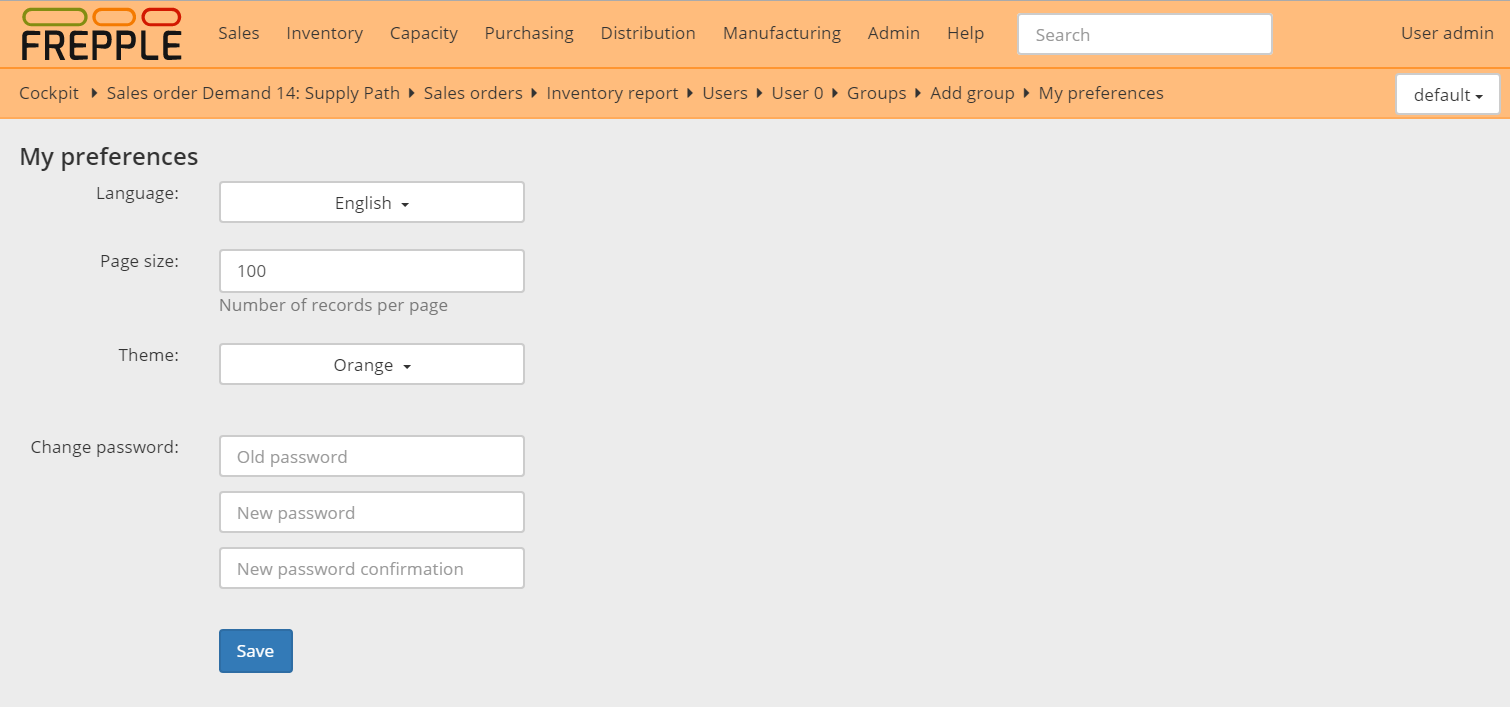
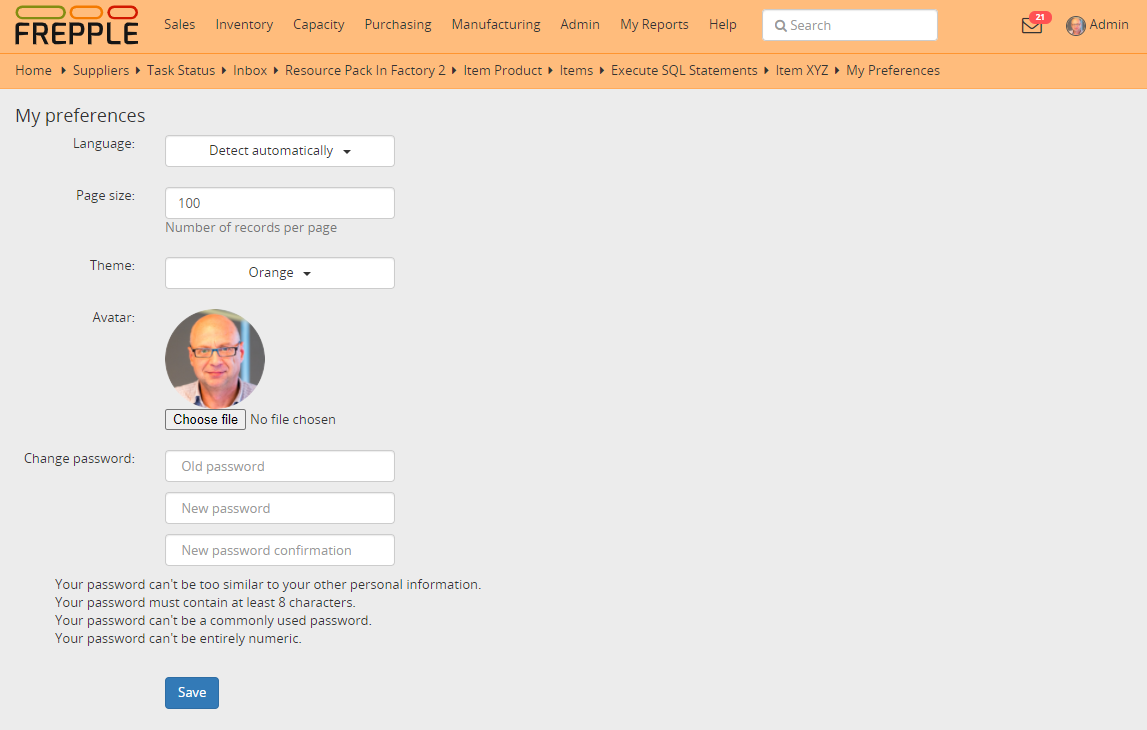
message and inbox developments

diff --git a/freppledb/common/templates/common/comments.html b/freppledb/common/templates/common/comments.html
@@ -11,14 +11,25 @@ function enableSave() {
 </script>
 {% endblock %}
 
+{% block tools %}
+<h1 class="pull-right">
+&nbsp;
+<button class="btn btn-xs btn-primary" data-toggle="tooltip" data-placement="top" data-original-title="{% trans 'help'|capfirst|force_escape %}"
+  onclick="window.open('{% setting "DOCUMENTATION_URL" %}/docs/{% version_short %}/user-interface/getting-around/messages.html');">
+  <span class="fa fa-question"></span>
+</button>
+</h1>
+{% include "common/snippet_follow.html" %}
+{% endblock %}
+
 {% block content %}
   <div id="content-main" class="row" style="min-height: 150px">
     <div class="col-md-12">
 {% if perms.common.add_comment %}
       <form method="post" enctype="multipart/form-data">{% csrf_token %}
-        <textarea id="comment" name="comment" class="form-control" rows="10" style="width:100%" oninput="enableSave()"></textarea>                
+        <textarea id="comment" name="comment" class="form-control" rows="10" style="width:100%; resize:vertical" oninput="enableSave()"></textarea>                
         <label for="attachment">{% trans "Add an attachment" %}
-        <input style="display:inline" type="file" name="attachment" accept="{% setting 'MEDIA_EXTENSIONS' %}" id="attachment" onchange="enableSave()">
+        <input style="padding-top: 1em; display:inline" type="file" name="attachment" accept="{% setting 'MEDIA_EXTENSIONS' %}" id="attachment" onchange="enableSave()">
         </label>
         <div style="margin-top: 0.7em"><button id="submit" type="submit" class="btn btn-primary disabled" role="button" value="{% filter force_escape %}{% trans 'Save' %}{% endfilter %}">{% filter force_escape %}{% trans 'Save' %}{% endfilter %}</button></div>
       </form>{% endif%}

diff --git a/freppledb/common/templates/common/inbox.html b/freppledb/common/templates/common/inbox.html
@@ -5,8 +5,17 @@
 {{ block.super }}
 {% endblock %}
 
-{% block content %}
+{% block tools %}
+<h1 class="pull-right">
+<button class="btn btn-xs btn-primary" data-toggle="tooltip" data-placement="top"
+  onclick="window.open('{% setting "DOCUMENTATION_URL" %}/docs/{% version_short %}/user-interface/getting-around/inbox/html')"
+  data-original-title="{% trans 'help'|capfirst|force_escape %}">
+  <span class="fa fa-question"></span>
+</button>
+</h1>
+{% endblock %}
 
+{% block content %}
 <div id="content-main">
 <div class="row">
 <div class="col-md-12">
@@ -14,12 +23,12 @@
 <table class="table table-condensed table-hover">
 <thead style="display: table-header-group;">
 <tr>
-<td><b style="text-transform: capitalize"><input type="checkbox"></td>
-<td><b style="text-transform: capitalize">Link</b></td>
-<td><b style="text-transform: capitalize">Comment</b></td>
-<td><b style="text-transform: capitalize"></b></td>
-<td><b style="text-transform: capitalize"></b></td>
-<td><b style="text-transform: capitalize"></b></td>
+<td><input type="checkbox"></td>
+<td></td>
+<td></td>
+<td></td>
+<td></td>
+<td></td>
 </tr>
 </thead>
 <tbody>
@@ -39,7 +48,7 @@
   {% endif %}</td>
 <td>
   <span data-toggle="tooltip" data-original-title="{{ notif.comment.user.first_name}} {{ notif.comment.user.last_name}}">
-  {% if notif.comment.user.avatar %}<img style="border-radius: 50%; width:30px; height:30px" src="/uploads/{{ notif.comment.user.avatar }}">{% endif %}
+  {% if notif.comment.user.avatar %}<img class="avatar-sm" src="/uploads/{{ notif.comment.user.avatar }}">{% endif %}
   {{ notif.comment.user.username }}
   </span>
 </td>

diff --git a/freppledb/common/templates/admin/base_site_nav.html b/freppledb/common/templates/admin/base_site_nav.html
@@ -69,13 +69,16 @@ $(function() {
           style="position:relative" data-original-title="{% trans "No unread messages" %}">
           <a href="{{request.prefix}}/inbox/">
             <span id="messages" style="font-size: 1.5em" class="fa fa-envelope-open-o" aria-hidden="true"></span>
-            <span style="font-size: 60%; position: absolute; top: 0; left:7px" class="badge progress-bar-danger" aria-hidden="true"></span>
+            <span style="font-size: 60%; position: absolute; top: -5px; left:7px" class="badge progress-bar-danger" aria-hidden="true"></span>
           </a>
         </div>
 		    <li class="dropdown">
 		    <a href="#" class="dropdown-toggle" style="padding-right: 20px" data-toggle="dropdown" 
           role="button" aria-haspopup="true" aria-expanded="false">
-          {% trans 'user'|capfirst %} {% firstof user.first_name user.username %}
+          {% if user.avatar %}<img src="{{ user.avatar.url }}" class="avatar-sm">
+          {% else %}<i style="font-size: 1.5em" class="fa fa-user-circle-o"></i>
+          {% endif %}
+          {% firstof user.first_name user.username %}
         </a>
 				<ul class="dropdown-menu">
 				  <li><a href="{{request.prefix}}/preferences/">{% trans 'preferences'|capfirst %}</a></li>

diff --git a/freppledb/common/templates/admin/base.html b/freppledb/common/templates/admin/base.html
@@ -26,7 +26,7 @@ $(function() {
 
 {% if messages %}<div class="row"><div class="col-md-12" style="margin-top: 5px">{% for message in messages %}<ul class="alert {{message.tags}}"><li >{{message}}</li></ul>{% endfor %}</div></div>{% endif %}
 
-{% block content_title %}<div class="row"><div class="col-md-12">{% if title %}<h1>{{title|capfirst|force_escape}}{% if post_title %}: {{post_title|capfirst}}{% endif %}<small>{% block filter %}{% endblock %}&nbsp;&nbsp;<span id="curerror"></span></small></h1>{% block tools %}{% endblock %}{% endif %}</div></div>{% endblock %}
+{% block content_title %}<div class="row"><div class="col-md-12">{% if title %}<h1 class="pull-left">{{title|capfirst|force_escape}}{% if post_title %}: {{post_title|capfirst}}{% endif %}<small>{% block filter %}{% endblock %}&nbsp;&nbsp;<span id="curerror"></span></small></h1>{% block tools %}{% endblock %}{% endif %}</div></div>{% endblock %}
 
 {% block content %}<div id="content" class="row">
 {% block object-tools %}{% endblock %}

diff --git a/freppledb/common/templates/common/preferences.html b/freppledb/common/templates/common/preferences.html
@@ -98,10 +98,11 @@
         <label class="control-label" for="id_avatar">{% trans 'avatar'|capfirst%}:</label>
       </div>
       <div class="col-xs-9" style="max-width:260px">
-        {% if request.user.avatar %}
-        <img style="border-radius: 50%; width:100px; height:100px" src="{{request.user.avatar.url}}">
+        {% if request.user.avatar %}<img style="border-radius: 50%; width:100px; height:100px" src="{{request.user.avatar.url}}">
+        {% else %}<i style="font-size: 8em" class="fa fa-user-circle-o"></i>
         {% endif %}
-        <input type="file" name="avatar" accept="image/*" id="id_avatar">
+        <input data-toggle="tooltip" data-html="true" type="file" name="avatar" accept="image/*" id="id_avatar"
+          data-original-title="{% trans "Upload a square picture of yourself.<br>Accepted formats are jpeg, png and gif.<br>Max file size is 100kB." %}">
       </div>
     </div>
 

diff --git a/freppledb/common/static/js/frepple.js b/freppledb/common/static/js/frepple.js
@@ -395,7 +395,7 @@ jQuery.extend($.fn.fmatter, {
 
   image : function(cellvalue, options, rowdata) {
     return cellvalue ?
-      '<img style="border-radius: 50%; width:40px; height:40px" src="/uploads/' + cellvalue + '">' :
+      '<img class="avatar-sm" src="/uploads/' + cellvalue + '">' :
       '';
   },
   
@@ -3797,4 +3797,23 @@ $.fn.drags = function(opt) {
           $(this).removeClass('active-handle').parent().removeClass('draggable');
       }
   });
+}
+
+//  Follower functions
+
+function follow(el) {
+ var t = $(el);
+ $.ajax({
+   url: url_prefix + "/follow/",
+   data: JSON.stringify([{
+     "object_pk": t.attr("data-pk"),
+     "model": t.attr("data-model"),
+     "action": "add"
+   }]),
+   type: "POST",
+   contentType: "application/json",
+   success: function () {
+     t.text(gettext("unfollow"));
+     }
+   });
 }

diff --git a/freppledb/common/templates/common/snippet_follow.html b/freppledb/common/templates/common/snippet_follow.html
@@ -1,0 +1,9 @@
+{% load i18n %}
+
+<h1 class="pull-right">
+<button class="btn btn-xs btn-primary" style="text-transform:capitalize" data-pk="{{object_id}}" data-model="{{opts}}"
+  onclick="follow(this)" data-toggle="tooltip" 
+  data-placement="auto bottom" data-original-title="{% trans 'Get a notification in your inbox when there is activity'|capfirst %}">
+  {% trans "follow" %}
+</button>
+</h1>

diff --git a/freppledb/common/static/css/frepple.less b/freppledb/common/static/css/frepple.less
@@ -890,3 +890,13 @@ h1 small {
 .supply .panel-heading.collapsed {
   opacity: 0.8;
 }
+
+// Avatar 
+
+img.avatar-sm {
+  border-radius: 50%;
+  width: 20px;
+  height: 20px;
+  border: 1px solid @gray;
+  vertical-align: top;
+}

diff --git a/freppledb/common/views.py b/freppledb/common/views.py
@@ -19,7 +19,7 @@ import json
 import os.path
 
 from django.core.paginator import Paginator
-from django.http import JsonResponse
+from django.http import JsonResponse, HttpResponseNotAllowed
 from django.shortcuts import render
 from django.contrib import messages
 from django.contrib.auth import update_session_auth_hash
@@ -51,7 +51,15 @@ from django.views import static
 from django.views.decorators.csrf import csrf_protect
 from django.views.decorators.debug import sensitive_variables
 
-from .models import User, Parameter, Comment, Bucket, BucketDetail, Notification
+from .models import (
+    User,
+    Parameter,
+    Comment,
+    Bucket,
+    BucketDetail,
+    Notification,
+    Follower,
+)
 from .report import GridReport, GridFieldLastModified, GridFieldText, GridFieldBool
 from .report import GridFieldDateTime, GridFieldInteger, getCurrency
 
@@ -173,6 +181,8 @@ class PreferencesForm(forms.Form):
             raise forms.ValidationError("Maximum page size is 10000.")
         if newdata.get("pagesize", 25) < 25:
             raise forms.ValidationError("Minimum page size is 25.")
+        if newdata.get("avatar", None) and newdata["avatar"].size > 102400:
+            raise forms.ValidationError("Avatars are limited to 100kB")
         if newdata["cur_password"]:
             if not self.user.check_password(newdata["cur_password"]):
                 raise forms.ValidationError(
@@ -616,6 +626,7 @@ def inbox(request):
         else:
             # Updating messages posted in the format
             # [{"id": 123, "action": "read / delete"},...]
+            response = {"errors": 0}
             try:
                 for rec in json.JSONDecoder().decode(
                     request.read().decode(request.encoding or settings.DEFAULT_CHARSET)
@@ -633,6 +644,8 @@ def inbox(request):
                             notif.delete(using=request.database)
             except Exception as e:
                 logger.error("Error processing comment: %s" % e)
+                response["errors"] += 1
+            return JsonResponse(response)
     else:
         # Return inbox page for normal requests
         inbox = Paginator(
@@ -649,4 +662,40 @@ def inbox(request):
                 "title": _("inbox"),
                 "inbox": inbox.get_page(request.GET.get("page", 1)),
             },
+        )
+
+
+@login_required
+def follow(request):
+    if request.is_ajax() and request.method == "POST":
+        # Updating followers posted in the format:
+        # [{"model": "input.item", "object_pk": "pk", "action": "add / delete"},...]
+        response = {"errors": 0}
+        try:
+            for rec in json.JSONDecoder().decode(
+                request.read().decode(request.encoding or settings.DEFAULT_CHARSET)
+            ):
+                action = rec.get("action", None)
+                object_pk = rec.get("object_pk", None)
+                model = rec.get("model", None)
+                if object_pk and model:
+                    app_and_model = model.split(".")
+                    ct = ContentType.objects.get(
+                        app_label=app_and_model[0], model=app_and_model[1]
+                    )
+                    if action == "delete":
+                        Follower.objects.using(request.database).filter(
+                            content_type=ct.pk, object_pk=object_pk, user=request.user
+                        ).delete()
+                    else:
+                        Follower.objects.using(request.database).get_or_create(
+                            content_type=ct, object_pk=object_pk, user=request.user
+                        )
+        except Exception as e:
+            logger.error("Error processing follower: %s" % e)
+            response["errors"] += 1
+        return JsonResponse(response)
+    else:
+        return HttpResponseNotAllowed(
+            ["post"], content="Only ajax POST requests are allowed"
         )

diff --git a/freppledb/common/adminforms.py b/freppledb/common/adminforms.py
@@ -491,7 +491,7 @@ class MultiDBModelAdmin(admin.ModelAdmin):
                     "title": force_text(modelinstance._meta.verbose_name)
                     + " "
                     + (bufferName if "bufferName" in vars() else object_id),
-                    "post_title": _("comments"),
+                    "post_title": _("messages"),
                     "model": self.model._meta.model_name,
                     "opts": self.model._meta,
                     "object_id": quote(object_id),

diff --git a/freppledb/common/urls.py b/freppledb/common/urls.py
@@ -35,6 +35,7 @@ autodiscover = True
 urlpatterns = [
     url(r"^uploads/(.+)$", freppledb.common.views.uploads, name="uploads"),
     url(r"^inbox/$", freppledb.common.views.inbox, name="inbox"),
+    url(r"^follow/$", freppledb.common.views.follow, name="follow"),
     url(r"^$", freppledb.common.views.cockpit, name="cockpit"),
     url(r"^preferences/$", freppledb.common.views.preferences, name="preferences"),
     url(r"^horizon/$", freppledb.common.views.horizon, name="horizon"),

diff --git a/freppledb/input/views.py b/freppledb/input/views.py
@@ -290,6 +290,7 @@ class PathReport(GridReport):
             "downstream": reportclass.downstream,
             "active_tab": reportclass.downstream and "whereused" or "supplypath",
             "model": reportclass.objecttype._meta,
+            "opts": reportclass.objecttype._meta.label_lower,
         }
 
     @classmethod
